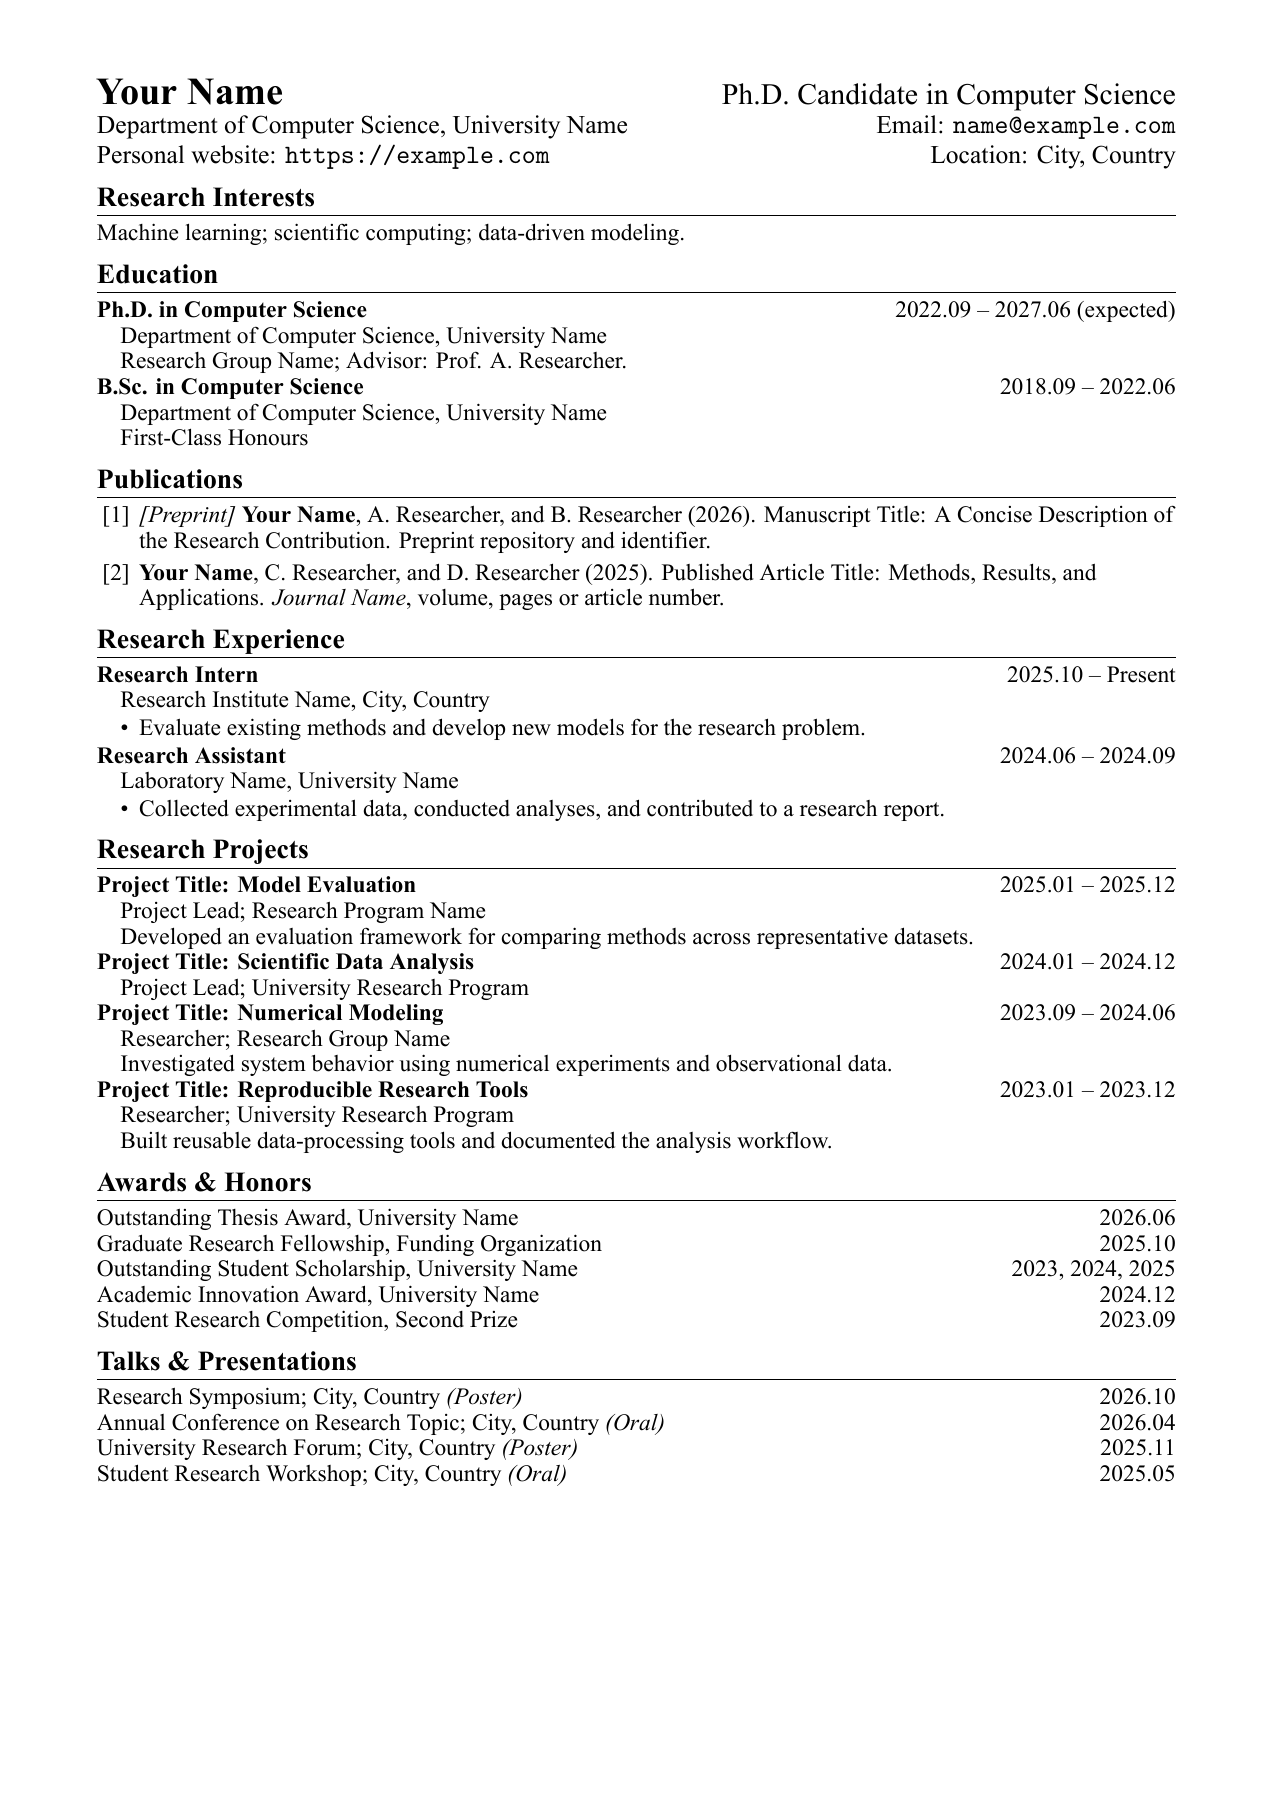
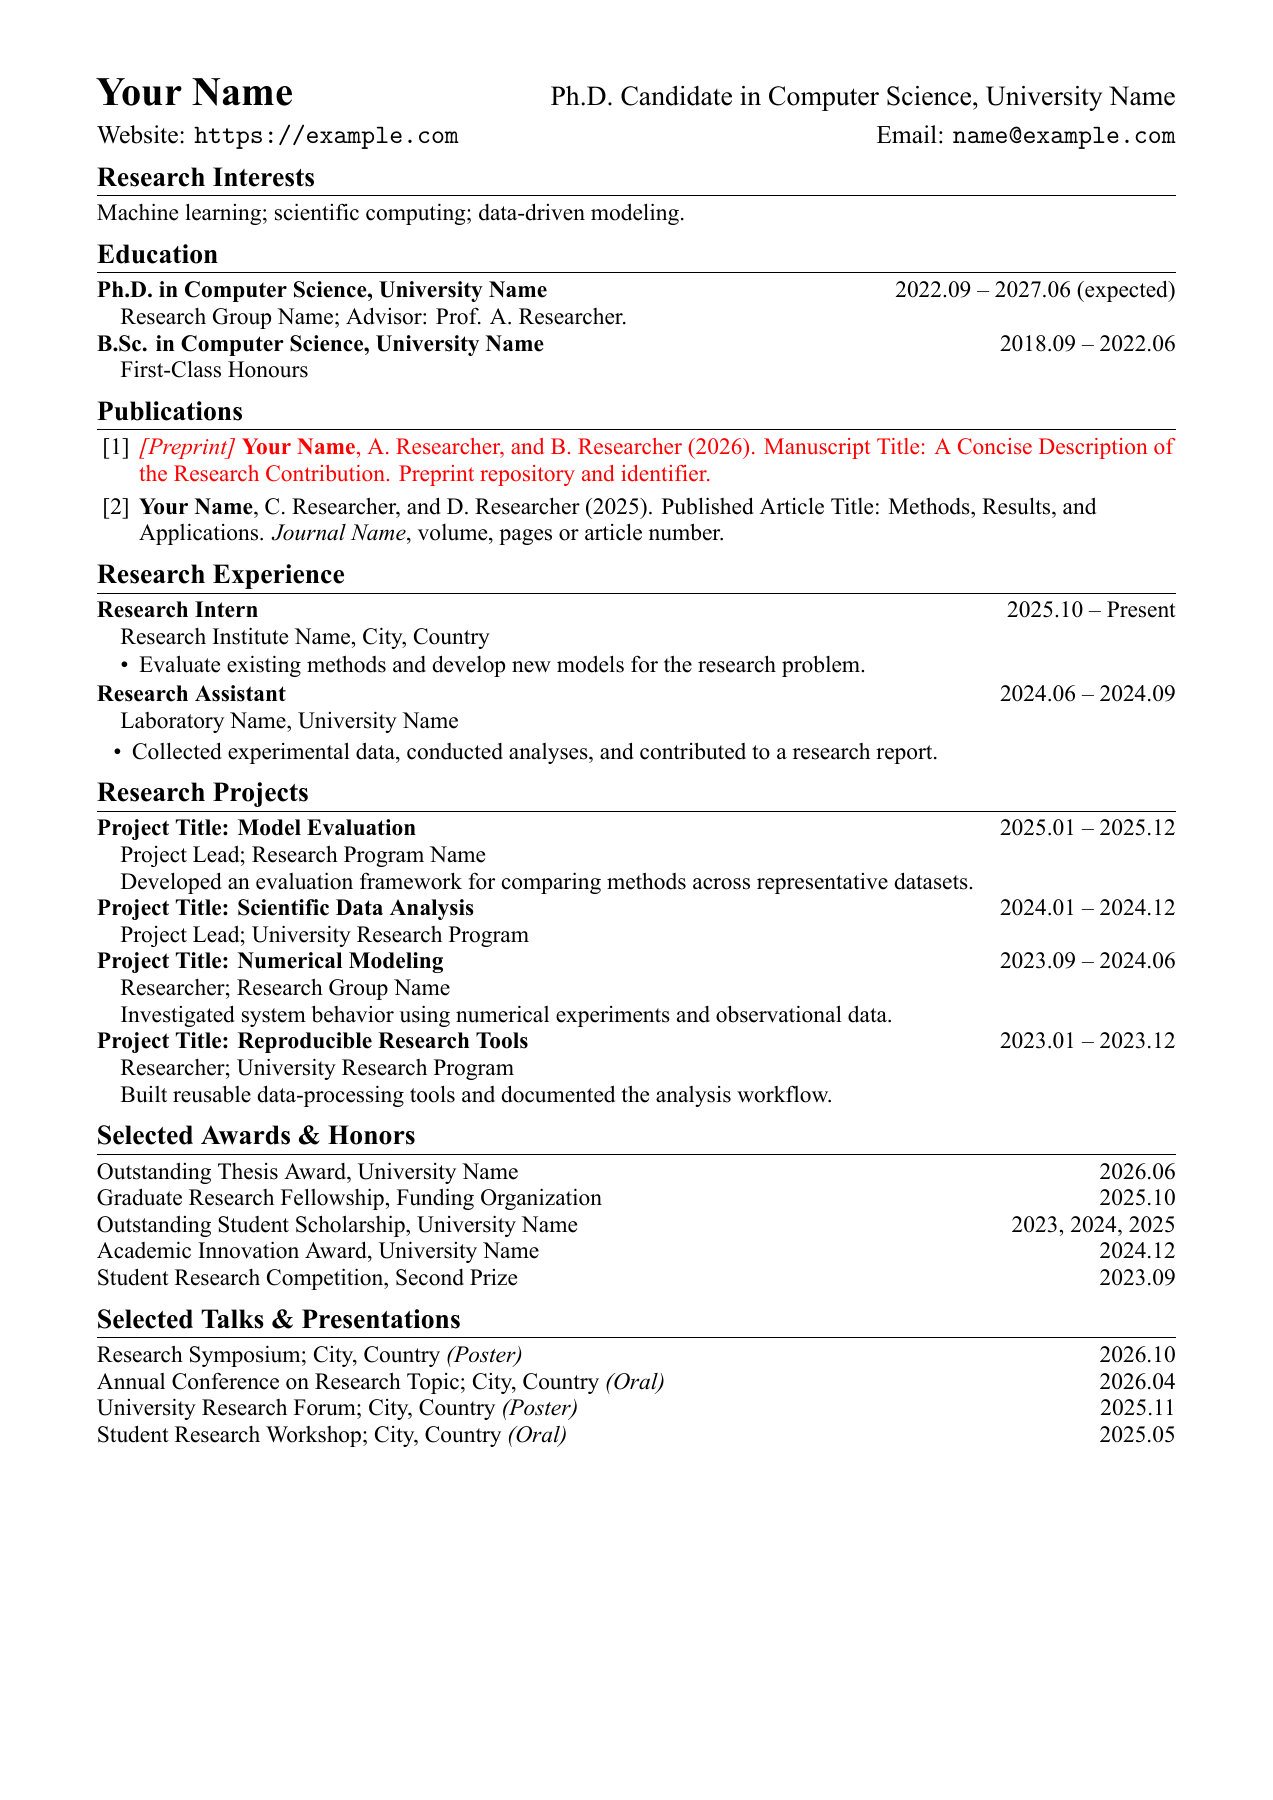
Sync template styling with November 2026 CV

diff --git a/cv-template.tex b/cv-template.tex
@@ -41,38 +41,34 @@
 \newcommand{\addspace}{\vspace{2pt}}
 
 \begin{document}
-\fontsize{11}{12}\selectfont
+\fontsize{11}{12.5}\selectfont
 
 % Header
-{\fontsize{18}{21}\selectfont\bfseries Your Name}
-\hfill {\fontsize{14}{21}\selectfont Ph.D. Candidate in Computer Science}\par
+{\fontsize{19}{0}\selectfont\bfseries Your Name}
+\hfill {\fontsize{13}{0}\selectfont Ph.D. Candidate in Computer Science, University Name}\par
 \addspace
-{\fontsize{12}{13}\selectfont
-Department of Computer Science, University Name
-\hfill\href{mailto:\email}{Email: \texttt{\email}}}\par
-\addspace
-{\fontsize{12}{13}\selectfont
-Personal website: \href{\website}{\texttt{\website}}
-\hfill Location: City, Country}\par
+{\fontsize{12}{16}\selectfont
+Website: \href{\website}{\texttt{\website}}
+\hfill Email: \href{mailto:\email}{\texttt{\email}}\par}
 
 \section*{Research Interests}
 Machine learning; scientific computing; data-driven modeling.
 
 \section*{Education}
-\textbf{Ph.D. in Computer Science}\hfill 2022.09 -- 2027.06 (expected)\par
-\hspace*{1em}Department of Computer Science, University Name\par
+\textbf{Ph.D. in Computer Science, University Name}\hfill 2022.09 -- 2027.06 (expected)\par
+% \hspace*{1em}Department of Computer Science, University Name\par
 \hspace*{1em}Research Group Name; Advisor: Prof. A. Researcher.\par
-\textbf{B.Sc. in Computer Science}\hfill 2018.09 -- 2022.06\par
-\hspace*{1em}Department of Computer Science, University Name\par
+\textbf{B.Sc. in Computer Science, University Name}\hfill 2018.09 -- 2022.06\par
+% \hspace*{1em}Department of Computer Science, University Name\par
 \hspace*{1em}First-Class Honours\par
 
 \section*{Publications}
 % Replace every example citation with your own verified bibliographic details.
 \begin{enumerate}[label={[\arabic*]},leftmargin=1.8em,labelsep=0.4em,
   topsep=1pt,itemsep=3pt,parsep=0pt,partopsep=0pt]
-  \item \textit{[Preprint]} \textbf{Your Name}, A. Researcher, and B. Researcher (2026).
+  \item \textcolor{red}{\textit{[Preprint]} \textbf{Your Name}, A. Researcher, and B. Researcher (2026).
     Manuscript Title: A Concise Description of the Research Contribution.
-    Preprint repository and identifier.
+    Preprint repository and identifier.}
   \item \textbf{Your Name}, C. Researcher, and D. Researcher (2025).
     Published Article Title: Methods, Results, and Applications.
     \textit{Journal Name}, volume, pages or article number.
@@ -86,7 +82,7 @@ Machine learning; scientific computing; data-driven modeling.
 \end{itemize}
 \textbf{Research Assistant}\hfill 2024.06 -- 2024.09\par
 \hspace*{1em}Laboratory Name, University Name\par
-\begin{itemize}[leftmargin=1.8em,topsep=1pt,itemsep=1.5pt,parsep=0pt,partopsep=0pt]
+\begin{itemize}[leftmargin=1.5em,topsep=2pt,itemsep=2pt,parsep=0pt,partopsep=0pt]
   \item Collected experimental data, conducted analyses, and contributed to a research report.
 \end{itemize}
 
@@ -103,14 +99,14 @@ Machine learning; scientific computing; data-driven modeling.
 \hspace*{1em}Researcher; University Research Program\par
 \hspace*{1em}Built reusable data-processing tools and documented the analysis workflow.\par
 
-\section*{Awards \& Honors}
+\section*{Selected Awards \& Honors}
 Outstanding Thesis Award, University Name\hfill 2026.06\par
 Graduate Research Fellowship, Funding Organization\hfill 2025.10\par
 Outstanding Student Scholarship, University Name\hfill 2023, 2024, 2025\par
 Academic Innovation Award, University Name\hfill 2024.12\par
 Student Research Competition, Second Prize\hfill 2023.09\par
 
-\section*{Talks \& Presentations}
+\section*{Selected Talks \& Presentations}
 Research Symposium; City, Country \textit{(Poster)}\hfill 2026.10\par
 Annual Conference on Research Topic; City, Country \textit{(Oral)}\hfill 2026.04\par
 University Research Forum; City, Country \textit{(Poster)}\hfill 2025.11\par

diff --git a/README.md b/README.md
@@ -2,7 +2,7 @@
 
 **English** | [简体中文](README.zh-CN.md)
 
-A compact academic CV in LaTeX with **Times New Roman**, a black-and-white layout, and ordinary paragraphs you can copy and edit directly. There is no custom class or entry framework. The example fits on one A4 page; your CV can grow to multiple pages.
+A compact academic CV in LaTeX with **Times New Roman**, black main text, a red preprint example, and ordinary paragraphs you can copy and edit directly. There is no custom class or entry framework. The example fits on one A4 page; your CV can grow to multiple pages.
 
 All names, institutions, publications, and achievements in the example are fictional placeholders.
 
@@ -42,13 +42,13 @@ Email and website values are defined once near the top:
 \newcommand{\website}{https://example.com}
 ```
 
-Changing these definitions updates both the displayed text and clickable links. Include `https://` in the website value. Update the name, position, affiliation, and location in the header, and `pdftitle` / `pdfauthor` in `\hypersetup`. These PDF metadata fields do not control the output filename.
+Changing these definitions updates both the displayed text and clickable links. Include `https://` in the website value. The header has two lines: name on the left and position plus institution on the right, followed by website on the left and email on the right. Update these details and `pdftitle` / `pdfauthor` in `\hypersetup`. These PDF metadata fields do not control the output filename.
 
 Use native LaTeX for entries:
 
 ```latex
-\textbf{Degree or position}\hfill 2025.09 -- Present\par
-\hspace*{1em}Institution or details\par
+\textbf{Degree, University Name}\hfill 2025.09 -- Present\par
+\hspace*{1em}Research Group Name; Advisor: Prof. A. Researcher.\par
 ```
 
 - `\section*{Heading}` adds a section.
@@ -58,6 +58,8 @@ Use native LaTeX for entries:
 - Dates with a known month use `yyyy.mm`; entries with only a known year keep the year.
 
 Keep research descriptions concise. Use present tense for ongoing work and past tense for completed experience. Replace all example citations with verified titles, authors, publication status, and bibliographic details. Add actual DOI or paper links with `\href{URL}{text}`.
+
+Education entries put the degree and institution together in bold, with optional department lines commented out in the source. The preprint citation uses `\textcolor{red}{...}` to match the current CV style; remove the wrapper to use black text.
 
 Escape LaTeX special characters in body text, for example `\&`, `\%`, and `\_`.
 
@@ -81,11 +83,13 @@ The three lengths are left indentation, space before the title, and space after 
 
 | Element | Font size / baseline spacing |
 | --- | --- |
-| Name | 18 pt / 21 pt |
-| Position | 14 pt / 21 pt |
-| Affiliation and contact lines | 12 pt / 13 pt |
+| Name | 19 pt / 0 pt (inline) |
+| Position and institution | 13 pt / 0 pt (inline) |
+| Website and email line | 12 pt / 16 pt |
 | Section titles | 13 pt / 14 pt |
-| Body | 11 pt / 12 pt |
+| Body | 11 pt / 12.5 pt |
+
+The name and position use inline font groups; their shared paragraph ends outside those groups. To adjust body line spacing, change the second value in `\fontsize{11}{12.5}\selectfont` after `\begin{document}`. Publication entries use `itemsep=3pt` for the gap between citations.
 
 A4 margins are 16 mm on the left and right and 13 mm at the top and bottom. Email and website addresses use Latin Modern Mono; the main text uses Times New Roman. Review line wrapping and page breaks after changing content. There is no enforced page limit.
 

diff --git a/README.zh-CN.md b/README.zh-CN.md
@@ -2,7 +2,7 @@
 
 [English](README.md) | **简体中文**
 
-一个紧凑的 LaTeX 学术 CV 模板，采用 **Times New Roman** 和黑白排版，内容直接写在普通段落中，方便复制修改。不使用自定义文档类或条目框架。示例为 A4 单页，个人 CV 可以按需要扩展为多页。
+一个紧凑的 LaTeX 学术 CV 模板，采用 **Times New Roman**，正文为黑色、预印本示例为红色，内容直接写在普通段落中，方便复制修改。不使用自定义文档类或条目框架。示例为 A4 单页，个人 CV 可以按需要扩展为多页。
 
 示例中的姓名、学校、论文和经历均为虚构占位内容。
 
@@ -42,13 +42,13 @@ xelatex -interaction=nonstopmode -halt-on-error -output-directory=output/pdf cv-
 \newcommand{\website}{https://example.com}
 ```
 
-修改定义后，显示文字和可点击链接会同步更新。网址请保留 `https://`。姓名、职位、所属机构和所在地直接在页首修改；同时更新 `\hypersetup` 中的 `pdftitle` 和 `pdfauthor`。这两个 PDF 元数据字段不控制输出文件名。
+修改定义后，显示文字和可点击链接会同步更新。网址请保留 `https://`。页首采用两行布局：第一行左侧为姓名，右侧为身份与学校；第二行左侧为网站，右侧为邮箱。直接修改这些内容，同时更新 `\hypersetup` 中的 `pdftitle` 和 `pdfauthor`。这两个 PDF 元数据字段不控制输出文件名。
 
 条目使用普通 LaTeX 写法：
 
 ```latex
-\textbf{Degree or position}\hfill 2025.09 -- Present\par
-\hspace*{1em}Institution or details\par
+\textbf{Degree, University Name}\hfill 2025.09 -- Present\par
+\hspace*{1em}Research Group Name; Advisor: Prof. A. Researcher.\par
 ```
 
 - `\section*{标题}` 添加分区。
@@ -58,6 +58,8 @@ xelatex -interaction=nonstopmode -halt-on-error -output-directory=output/pdf cv-
 - 已知月份的日期统一使用 `yyyy.mm`；只有年份的条目保留年份。
 
 研究工作描述保持简洁：正在进行的工作用现在时，已完成的经历用过去时。将所有论文示例替换为真实题名、作者、发表状态和引文信息，并用 `\href{链接}{文字}` 添加实际 DOI 或论文链接。
+
+教育经历将学位与学校合并在同一行并加粗；源码中的院系行已注释，可按需要启用。预印本条目通过 `\textcolor{red}{...}` 显示为红色，与当前 CV 样式保持一致；去掉这层命令即可恢复黑色。
 
 LaTeX 正文中的特殊字符需要转义，例如 `\&`、`\%` 和 `\_`。
 
@@ -81,11 +83,13 @@ LaTeX 正文中的特殊字符需要转义，例如 `\&`、`\%` 和 `\_`。
 
 | 元素 | 字号 / 基线间距 |
 | --- | --- |
-| 姓名 | 18 pt / 21 pt |
-| 职位 | 14 pt / 21 pt |
-| 所属机构与联系方式 | 12 pt / 13 pt |
+| 姓名 | 19 pt / 0 pt（行内设置） |
+| 身份与学校 | 13 pt / 0 pt（行内设置） |
+| 网站与邮箱行 | 12 pt / 16 pt |
 | 分区标题 | 13 pt / 14 pt |
-| 正文 | 11 pt / 12 pt |
+| 正文 | 11 pt / 12.5 pt |
+
+姓名与身份的字号在各自行内分组中设置，共用的段落在分组外结束。调整正文行距时，修改 `\begin{document}` 后 `\fontsize{11}{12.5}\selectfont` 的第二个数值。论文条目之间的间距由 `itemsep=3pt` 控制。
 
 A4 纸张左右页边距为 16 mm、上下为 13 mm。邮箱与网址使用 Latin Modern Mono 等宽字体，正文使用 Times New Roman。修改内容后请检查换行和分页，模板不强制限制页数。
 
